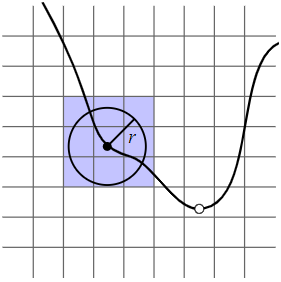
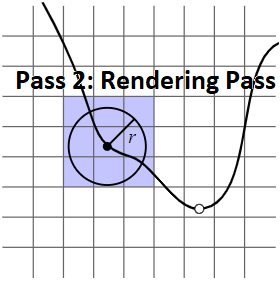
VXGI

diff --git a/src/Image-Synthesis/Lighting/VXGI.md b/src/Image-Synthesis/Lighting/VXGI.md
@@ -3,22 +3,42 @@
 ## Photon Mapping  
 
 By \[Jensen 1996\] and "16.2.2 Photon Mapping" of [PBRT-V3](https://pbr-book.org/3ed-2018/Light_Transport_III_Bidirectional_Methods/Stochastic_Progressive_Photon_Mapping#PhotonMapping), the **photon mapping** is composed of two-pass: the **photon pass** and the **rendering pass**. In the first pass (photon pass), the paths are traced from the light sources and the lighting of the interaction points on the surface are recorded as the photons. In the second pass (rendering pass), the paths are traced from the camera and the nearby photons of the interaction points are used to estimate the lighting.  
-
 ![](VXGI-1.png)  
 ![](VXGI-2.png)  
 
-By "Progressive Photon Mapping" of [PBRT-V3](https://pbr-book.org/3ed-2018/Light_Transport_III_Bidirectional_Methods/Stochastic_Progressive_Photon_Mapping#x2-ProgressivePhotonMapping), the approach, that only the interaction points after the diffuse bounce are recorded as the photons in the photon pass, is also called the **final gathering**.  
-
+By "Progressive Photon Mapping" of [PBRT-V3](https://pbr-book.org/3ed-2018/Light_Transport_III_Bidirectional_Methods/Stochastic_Progressive_Photon_Mapping#x2-ProgressivePhotonMapping), the special case, where only the interaction points after the diffuse bounce are recorded as the photons in the photon pass, of the photon mapping is also called the **final gathering**.  
 ![](VXGI-3.png)  
 
-By \[Crassin 2011 B\], the idea of VXGI is to use the voxel cone tracing to perform the final gathering. The VXGI is composed of three pass: light injection pass, filtering pass and voxel cone tracing pass. In the first pass (light injection pass), the photons are organized in the voxels. In the second pass (filtering pass), TODO. In the third pass (voxel cone tracing pass), the voxel cone tracing is used to perform the final gathering.  
-
+By \[Crassin 2011 B\], the idea of VXGI is to organize the photons by the voxels and to implement the "final gathering" by the following three steps: light injection, filtering and cone tracing. The first step (light injection) of VXGI is analogous to the first pass (photon pass) of photon mapping. The third step (cone tracing) of VXGI is analogous to the second pass (rendering pass) of photon mapping.  
 ![](VXGI-4.png)  
+![](VXGI-5.png)  
+![](VXGI-6.png)  
+![](VXGI-7.png)  
 
-## Voxel Cone Tracing  
+## Cone Tracing  
+
+// ray intersect at an infinitesimal point  
+// cone intersect at an area/volume  
+// geometry filterable // less accurate but reduced noise  
+
+// cannot detect full occlusions that are a result of multiple partial ones  
+
+// "Figure 11.12"  
+
+// Dynamic Occlusion with Signed Distance Fields  
+
+// PDF Cosine Term  
+[Cosine-Weighted Hemisphere Sampling](https://pbr-book.org/3ed-2018/Monte_Carlo_Integration/2D_Sampling_with_Multidimensional_Transformations#Cosine-WeightedHemisphereSampling)  
+
+## Global Illumination  
+
+TODO: Not related to my current work  
+
+## Ambient Occlusion  
 
 ## Reference  
-
 \[Jensen 1996\] [Henrik Wann Jensen. "Global Illumination using Photon Maps." EGSR 1996.](http://graphics.ucsd.edu/~henrik/papers/photon_map/)  
 \[Crassin 2011 A\] [Cyril Crassin. "GigaVoxels: A Voxel-Based Rendering Pipeline For Efficient Exploration Of Large And Detailed Scenes." PhD Thesis 2011.](http://gigavoxels.inrialpes.fr/index.html)  
-\[Crassin 2011 B\] [Cyril Crassin, Fabrice Neyret, Miguel Sainz, Simon Green, Elmar Eisemann. "Interactive Indirect Illumination Using Voxel Cone Tracing." SIGGRAPH 2011.](https://research.nvidia.com/publication/interactive-indirect-illumination-using-voxel-cone-tracing) 
+\[Crassin 2011 B\] [Cyril Crassin, Fabrice Neyret, Miguel Sainz, Simon Green, Elmar Eisemann. "Interactive Indirect Illumination Using Voxel Cone Tracing." SIGGRAPH 2011.](https://research.nvidia.com/publication/interactive-indirect-illumination-using-voxel-cone-tracing)  
+\[McLaren 2015\] [James McLaren. "The Technology of The Tomorrow Children." GDC 2015.](http://fumufumu.q-games.com/archives/TheTechnologyOfTomorrowsChildrenFinal.pdf)  
+\[Eric 2017\] [Eric Arneback. “Comparing a Clipmap to a Sparse Voxel Octree for Global Illumination." Master thesis 2017.](https://erkaman.github.io/posts/masters_thesis.html)  
